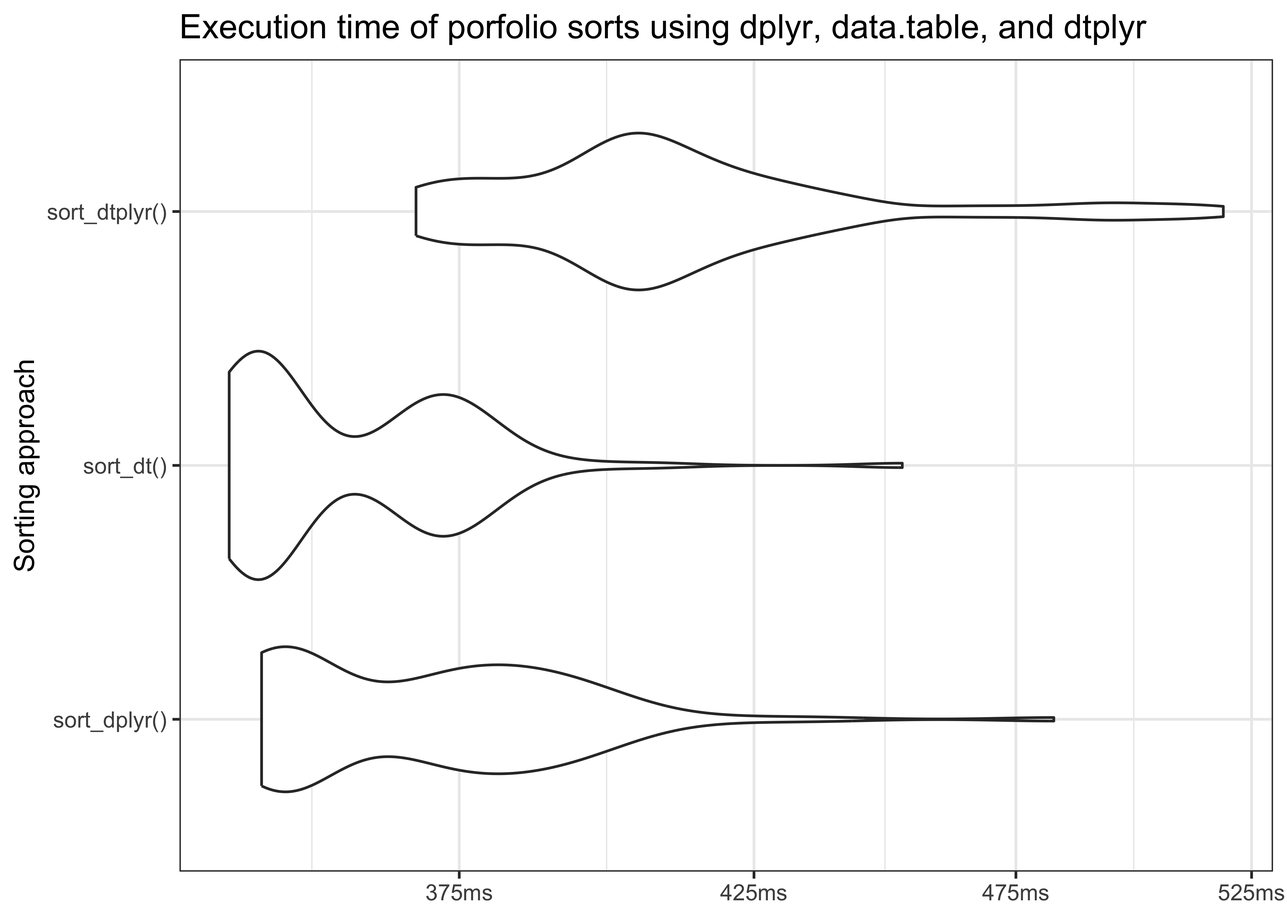
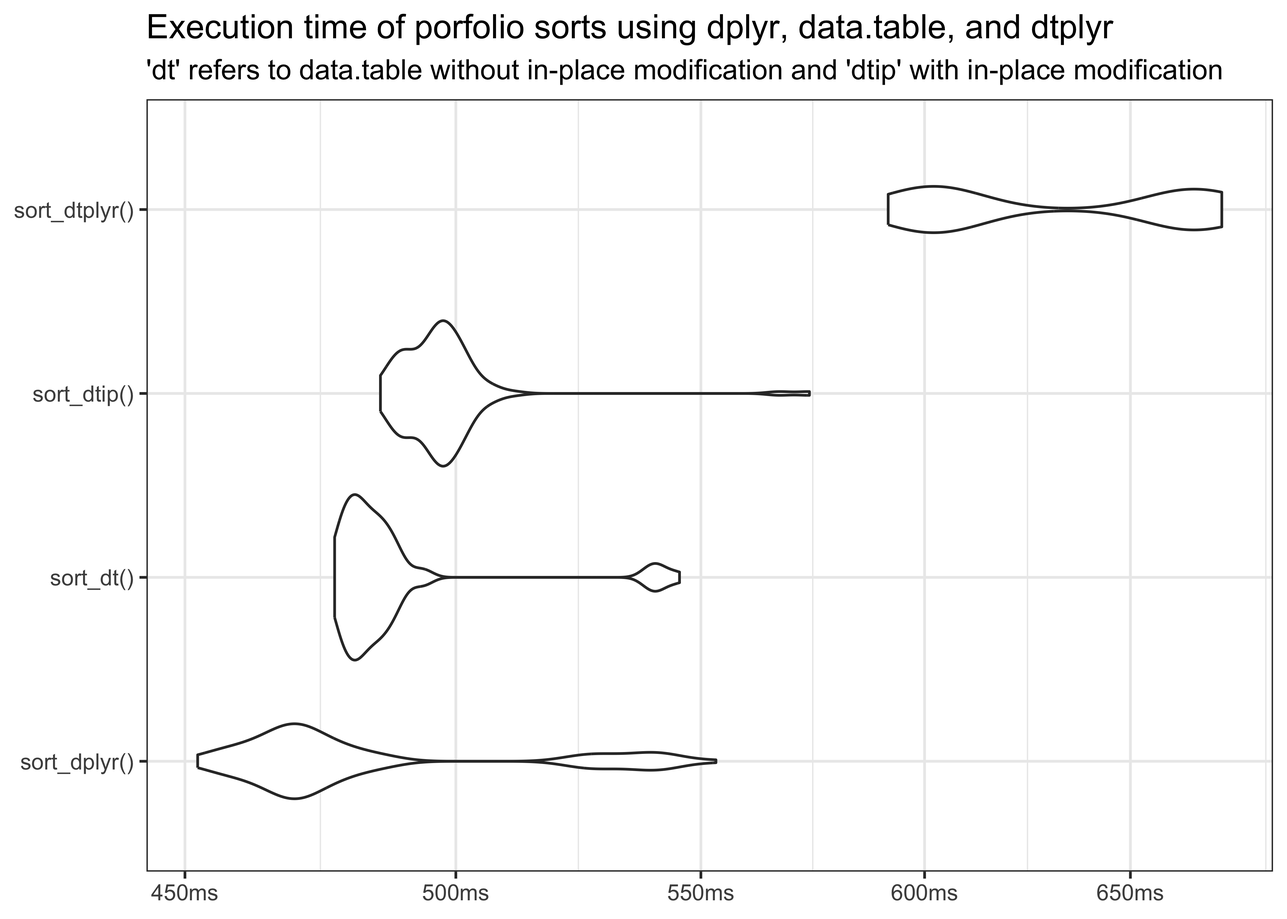
Render blog/fast-portfolio-sorts

diff --git a/docs/blog/fast-portfolio-sorts/index.html b/docs/blog/fast-portfolio-sorts/index.html
@@ -7,7 +7,7 @@
 <meta name="viewport" content="width=device-width, initial-scale=1.0, user-scalable=yes">
 
 <meta name="author" content="Christoph Scheuch">
-<meta name="dcterms.date" content="2024-06-06">
+<meta name="dcterms.date" content="2024-06-08">
 <meta name="description" content="A benchmark of R approaches for efficient portfolio sorts">
 
 <title>Tidy Finance - Fast Portfolio Sorts</title>
@@ -241,7 +241,7 @@ cookieconsent.run({
       <div>
       <div class="quarto-title-meta-heading">Published</div>
       <div class="quarto-title-meta-contents">
-        <p class="date">June 6, 2024</p>
+        <p class="date">June 8, 2024</p>
       </div>
     </div>
     
@@ -260,6 +260,7 @@ cookieconsent.run({
   <li><a href="#data-preparation" id="toc-data-preparation" class="nav-link active" data-scroll-target="#data-preparation">Data preparation</a></li>
   <li><a href="#defining-portfolio-sorts" id="toc-defining-portfolio-sorts" class="nav-link" data-scroll-target="#defining-portfolio-sorts">Defining portfolio sorts</a></li>
   <li><a href="#benchmarking-results" id="toc-benchmarking-results" class="nav-link" data-scroll-target="#benchmarking-results">Benchmarking results</a></li>
+  <li><a href="#concluding-remarks" id="toc-concluding-remarks" class="nav-link" data-scroll-target="#concluding-remarks">Concluding remarks</a></li>
   </ul>
 <div class="toc-actions"><ul><li><a href="https://github.com/tidy-finance/website/blob/main/blog/fast-portfolio-sorts/index.qmd" class="toc-action"><i class="bi bi-github"></i>View source</a></li></ul></div></nav>
     </div>
@@ -270,12 +271,13 @@ cookieconsent.run({
 
 
 
-<p>In the world of finance and investment management, working with large datasets containing portfolio holdings is a common task. One crucial operation that often needs to be performed on these datasets is portfolio sorts (e.g., see our chapter on <a href="../../r/univariate-portfolio-sorts.html">Univariate Portfolio Sorts</a>. While R offers a variety of approaches through its base functions and popular packages like <code>dplyr</code> and <code>data.table</code>, the performance of these methods can vary significantly, especially when dealing with large datasets. As a data analyst or portfolio manager, it’s essential to understand the trade-offs between different sorting approaches in terms of execution time and memory usage. This blog post aims toshed light on this topic by benchmarking the performance of various sorting methods in R, specifically for the use case of sorting portfolio holdings.</p>
+<p>In the world of finance and investment management, implementing standard tasks like portfolio sorts in R can be approached in various ways, including using base R, <code>dplyr</code>, or <code>data.table</code>. For researchers and data analysts, it’s crucial that these implementations are both correct and efficient. Even though portfolio sorting is a relatively simple task, the need to sort portfolios in numerous ways due to the variety of sorting variables and methodological uncertainties can make computational efficiency critical. This blog post will benchmark the performance of different sorting methods in R, focusing on execution time and memory usage, to provide insights for data analysts and portfolio managers on choosing the most efficient approach.</p>
 <p>We’ll dive into the following sorting approaches:</p>
 <ul>
 <li>Use the built-in <code>base</code> functions that ship with every R installation.</li>
 <li>Leverage the popular <code>dplyr</code> package and workhorse of <a href="../../r/index.html">Tidy Finance with R</a>.</li>
-<li>Explore the powerful <code>data.table</code> package and its sorting capabilities.</li>
+<li>Explore the powerful <code>data.table</code> package using on-the-fly column creation.</li>
+<li>Compare to the <code>data.table</code> variant with in-place mutations.</li>
 <li>Combine the <code>dplyr</code> syntax with <code>data.table</code>’s performance through <code>dtplyr</code>.</li>
 </ul>
 <p>Throughout this blog post, I’ll use the following packages. Notably, <code>bench</code> is used to create benchmarking results.</p>
@@ -285,11 +287,12 @@ cookieconsent.run({
 <span id="cb1-3"><a href="#cb1-3" aria-hidden="true" tabindex="-1"></a><span class="fu">library</span>(data.table)</span>
 <span id="cb1-4"><a href="#cb1-4" aria-hidden="true" tabindex="-1"></a><span class="fu">library</span>(bench)</span>
 <span id="cb1-5"><a href="#cb1-5" aria-hidden="true" tabindex="-1"></a><span class="fu">library</span>(purrr)</span>
-<span id="cb1-6"><a href="#cb1-6" aria-hidden="true" tabindex="-1"></a><span class="fu">library</span>(RSQLite)</span></code><button title="Copy to Clipboard" class="code-copy-button"><i class="bi"></i></button></pre></div>
+<span id="cb1-6"><a href="#cb1-6" aria-hidden="true" tabindex="-1"></a><span class="fu">library</span>(RSQLite)</span>
+<span id="cb1-7"><a href="#cb1-7" aria-hidden="true" tabindex="-1"></a><span class="fu">library</span>(ggplot2)</span></code><button title="Copy to Clipboard" class="code-copy-button"><i class="bi"></i></button></pre></div>
 </div>
 <section id="data-preparation" class="level2">
 <h2 class="anchored" data-anchor-id="data-preparation">Data preparation</h2>
-<p>First, I start by loading the monthly CRSP data from our database (see <a href="../../r/wrds-crsp-and-compustat.html">WRDS, CRSP, and Compustat</a> for details). The dataset has about 3 million rows and contains monthly returns between 1960 and 2023 for about 26,000 stocks. I also make sure that the data comes as a <code>tibble</code> for <code>dplyr</code>, a <code>data.frame</code> for <code>base</code>, a <code>data.table</code> for <code>data.table</code> and a “lazy” data table for <code>dtplyr</code> because I want to avoid any conversion issues in the portfolio assignments.</p>
+<p>First, I start by loading the monthly CRSP data from our database (see <a href="../../r/wrds-crsp-and-compustat.html">WRDS, CRSP, and Compustat</a> for details). The dataset has about 3 million rows and contains monthly returns between 1960 and 2023 for about 26,000 stocks. I also make sure that the data comes as a <code>tibble</code> for <code>dplyr</code>, a <code>data.frame</code> for <code>base</code>, two <code>data.table</code>s for the two <code>data.table</code> approaches, and a ‘lazy’ data table for <code>dtplyr</code> because I want to avoid any conversion issues in the portfolio assignments.</p>
 <div class="cell">
 <div class="sourceCode cell-code" id="cb2"><pre class="sourceCode r code-with-copy"><code class="sourceCode r"><span id="cb2-1"><a href="#cb2-1" aria-hidden="true" tabindex="-1"></a>tidy_finance <span class="ot">&lt;-</span> <span class="fu">dbConnect</span>(</span>
 <span id="cb2-2"><a href="#cb2-2" aria-hidden="true" tabindex="-1"></a>  <span class="fu">SQLite</span>(),</span>
@@ -305,8 +308,11 @@ cookieconsent.run({
 <span id="cb2-12"><a href="#cb2-12" aria-hidden="true" tabindex="-1"></a></span>
 <span id="cb2-13"><a href="#cb2-13" aria-hidden="true" tabindex="-1"></a>crsp_monthly_dt <span class="ot">&lt;-</span> <span class="fu">copy</span>(<span class="fu">as.data.table</span>(crsp_monthly_dplyr))</span>
 <span id="cb2-14"><a href="#cb2-14" aria-hidden="true" tabindex="-1"></a></span>
-<span id="cb2-15"><a href="#cb2-15" aria-hidden="true" tabindex="-1"></a>crsp_monthly_dtplyr <span class="ot">&lt;-</span> <span class="fu">lazy_dt</span>(crsp_monthly_dplyr)</span></code><button title="Copy to Clipboard" class="code-copy-button"><i class="bi"></i></button></pre></div>
+<span id="cb2-15"><a href="#cb2-15" aria-hidden="true" tabindex="-1"></a>crsp_monthly_dtip <span class="ot">&lt;-</span> <span class="fu">copy</span>(<span class="fu">as.data.table</span>(crsp_monthly_dplyr))</span>
+<span id="cb2-16"><a href="#cb2-16" aria-hidden="true" tabindex="-1"></a></span>
+<span id="cb2-17"><a href="#cb2-17" aria-hidden="true" tabindex="-1"></a>crsp_monthly_dtplyr <span class="ot">&lt;-</span> <span class="fu">lazy_dt</span>(<span class="fu">copy</span>(crsp_monthly_dt))</span></code><button title="Copy to Clipboard" class="code-copy-button"><i class="bi"></i></button></pre></div>
 </div>
+<p>Note <code>data.table</code> in R uses reference semantics, which means that modifying one <code>data.table</code> object could potentially modify another if they share the same underlying data. Therefore, <code>copy()</code> ensures that <code>crsp_monthly_dt</code> is an independent copy of the data, preventing unintentional side effects from modifications in subsequent operations and ensuring a fair comparison.</p>
 </section>
 <section id="defining-portfolio-sorts" class="level2">
 <h2 class="anchored" data-anchor-id="defining-portfolio-sorts">Defining portfolio sorts</h2>
@@ -329,106 +335,130 @@ cookieconsent.run({
 <p>If we want to apply the function above to each month using only <code>base</code>, then we have to first split the <code>data.frame</code> into multiple parts and <code>lapply()</code> the function to each part. After we combined the parts again to one big data.frame, we can use <code>aggregate()</code> to compute the average excess returns.</p>
 <div class="cell">
 <div class="sourceCode cell-code" id="cb4"><pre class="sourceCode r code-with-copy"><code class="sourceCode r"><span id="cb4-1"><a href="#cb4-1" aria-hidden="true" tabindex="-1"></a>sort_base <span class="ot">&lt;-</span> <span class="cf">function</span>() {</span>
-<span id="cb4-2"><a href="#cb4-2" aria-hidden="true" tabindex="-1"></a>  df_split <span class="ot">&lt;-</span> <span class="fu">split</span>(crsp_monthly_base, crsp_monthly_base<span class="sc">$</span>month)</span>
-<span id="cb4-3"><a href="#cb4-3" aria-hidden="true" tabindex="-1"></a>  df_split <span class="ot">&lt;-</span> <span class="fu">lapply</span>(df_split, <span class="cf">function</span>(df) {</span>
-<span id="cb4-4"><a href="#cb4-4" aria-hidden="true" tabindex="-1"></a>    df<span class="sc">$</span>portfolio <span class="ot">&lt;-</span> <span class="fu">assign_portfolio</span>(df, <span class="st">"mktcap_lag"</span>, <span class="at">n_portfolios =</span> <span class="dv">10</span>)</span>
-<span id="cb4-5"><a href="#cb4-5" aria-hidden="true" tabindex="-1"></a>    <span class="fu">return</span>(df)</span>
-<span id="cb4-6"><a href="#cb4-6" aria-hidden="true" tabindex="-1"></a>  })</span>
-<span id="cb4-7"><a href="#cb4-7" aria-hidden="true" tabindex="-1"></a>  df <span class="ot">&lt;-</span> <span class="fu">do.call</span>(rbind, df_split)</span>
-<span id="cb4-8"><a href="#cb4-8" aria-hidden="true" tabindex="-1"></a>  <span class="fu">aggregate</span>(ret_excess <span class="sc">~</span> portfolio, <span class="at">data =</span> df, <span class="at">FUN =</span> <span class="cf">function</span>(x) <span class="fu">mean</span>(x, <span class="at">na.rm =</span> <span class="cn">TRUE</span>))</span>
-<span id="cb4-9"><a href="#cb4-9" aria-hidden="true" tabindex="-1"></a>}</span>
-<span id="cb4-10"><a href="#cb4-10" aria-hidden="true" tabindex="-1"></a><span class="fu">sort_base</span>()</span></code><button title="Copy to Clipboard" class="code-copy-button"><i class="bi"></i></button></pre></div>
+<span id="cb4-2"><a href="#cb4-2" aria-hidden="true" tabindex="-1"></a>  crsp_monthly_base<span class="sc">$</span>portfolio <span class="ot">&lt;-</span> <span class="fu">with</span>(</span>
+<span id="cb4-3"><a href="#cb4-3" aria-hidden="true" tabindex="-1"></a>    crsp_monthly_base, </span>
+<span id="cb4-4"><a href="#cb4-4" aria-hidden="true" tabindex="-1"></a>    <span class="fu">ave</span>(mktcap_lag, month, <span class="at">FUN =</span> <span class="cf">function</span>(x) <span class="fu">assign_portfolio</span>(<span class="fu">data.frame</span>(<span class="at">mktcap_lag =</span> x), <span class="st">"mktcap_lag"</span>, <span class="at">n_portfolios =</span> <span class="dv">10</span>))</span>
+<span id="cb4-5"><a href="#cb4-5" aria-hidden="true" tabindex="-1"></a>  )</span>
+<span id="cb4-6"><a href="#cb4-6" aria-hidden="true" tabindex="-1"></a>  </span>
+<span id="cb4-7"><a href="#cb4-7" aria-hidden="true" tabindex="-1"></a>  mean_ret_excess <span class="ot">&lt;-</span> <span class="fu">with</span>(</span>
+<span id="cb4-8"><a href="#cb4-8" aria-hidden="true" tabindex="-1"></a>    crsp_monthly_base, </span>
+<span id="cb4-9"><a href="#cb4-9" aria-hidden="true" tabindex="-1"></a>    <span class="fu">tapply</span>(ret_excess, portfolio, mean)</span>
+<span id="cb4-10"><a href="#cb4-10" aria-hidden="true" tabindex="-1"></a>  )</span>
+<span id="cb4-11"><a href="#cb4-11" aria-hidden="true" tabindex="-1"></a></span>
+<span id="cb4-12"><a href="#cb4-12" aria-hidden="true" tabindex="-1"></a>  <span class="fu">data.frame</span>(</span>
+<span id="cb4-13"><a href="#cb4-13" aria-hidden="true" tabindex="-1"></a>    <span class="at">portfolio =</span> <span class="fu">names</span>(mean_ret_excess), </span>
+<span id="cb4-14"><a href="#cb4-14" aria-hidden="true" tabindex="-1"></a>    <span class="at">ret =</span> <span class="fu">unlist</span>(mean_ret_excess)</span>
+<span id="cb4-15"><a href="#cb4-15" aria-hidden="true" tabindex="-1"></a>  )</span>
+<span id="cb4-16"><a href="#cb4-16" aria-hidden="true" tabindex="-1"></a>}</span>
+<span id="cb4-17"><a href="#cb4-17" aria-hidden="true" tabindex="-1"></a>bench<span class="sc">::</span><span class="fu">system_time</span>(<span class="fu">sort_base</span>())</span></code><button title="Copy to Clipboard" class="code-copy-button"><i class="bi"></i></button></pre></div>
 <div class="cell-output cell-output-stdout">
-<pre><code>   portfolio ret_excess
-1          1    0.02270
-2          2    0.00512
-3          3    0.00482
-4          4    0.00515
-5          5    0.00548
-6          6    0.00608
-7          7    0.00637
-8          8    0.00680
-9          9    0.00647
-10        10    0.00579</code></pre>
+<pre><code>process    real 
+  3.11s   3.08s </code></pre>
 </div>
 </div>
-<p>This approach takes about 10 seconds per execution on my machine and is in fact more than 20-times slower than the other approaches! To create a more nuanced picture for the fast and arguably more interesting approaches, I’ll drop the <code>base</code> approach going forward.</p>
+<p>This approach takes about 3 seconds per execution on my machine and is in fact more than 8-times slower than the other approaches! To create a more nuanced picture for the fast and arguably more interesting approaches, I’ll drop the <code>base</code> approach going forward.</p>
 <p>If we want to perform the same logic using <code>dplyr</code>, we can use the following approach. Note that I use <code>as.data.frame()</code> for all approaches to ensure that the output format is the same for all approaches - a necessary requirement for a meaningful benchmark (otherwise code would not be equivalent).</p>
 <div class="cell">
 <div class="sourceCode cell-code" id="cb6"><pre class="sourceCode r code-with-copy"><code class="sourceCode r"><span id="cb6-1"><a href="#cb6-1" aria-hidden="true" tabindex="-1"></a>sort_dplyr <span class="ot">&lt;-</span> <span class="cf">function</span>() {</span>
 <span id="cb6-2"><a href="#cb6-2" aria-hidden="true" tabindex="-1"></a>  crsp_monthly_dplyr <span class="sc">|&gt;</span> </span>
-<span id="cb6-3"><a href="#cb6-3" aria-hidden="true" tabindex="-1"></a>    <span class="fu">mutate</span>(</span>
-<span id="cb6-4"><a href="#cb6-4" aria-hidden="true" tabindex="-1"></a>      <span class="at">portfolio =</span> <span class="fu">assign_portfolio</span>(</span>
-<span id="cb6-5"><a href="#cb6-5" aria-hidden="true" tabindex="-1"></a>        <span class="fu">pick</span>(<span class="fu">everything</span>()), <span class="st">"mktcap_lag"</span>, <span class="at">n_portfolios =</span> <span class="dv">10</span>),</span>
-<span id="cb6-6"><a href="#cb6-6" aria-hidden="true" tabindex="-1"></a>      <span class="at">by =</span> <span class="st">"month"</span></span>
-<span id="cb6-7"><a href="#cb6-7" aria-hidden="true" tabindex="-1"></a>    ) <span class="sc">|&gt;</span> </span>
-<span id="cb6-8"><a href="#cb6-8" aria-hidden="true" tabindex="-1"></a>    <span class="fu">group_by</span>(portfolio) <span class="sc">|&gt;</span> </span>
-<span id="cb6-9"><a href="#cb6-9" aria-hidden="true" tabindex="-1"></a>    <span class="fu">summarize</span>(<span class="at">ret =</span> <span class="fu">mean</span>(ret_excess, <span class="at">na.rm =</span> <span class="cn">TRUE</span>)) <span class="sc">|&gt;</span> </span>
-<span id="cb6-10"><a href="#cb6-10" aria-hidden="true" tabindex="-1"></a>    <span class="fu">as.data.frame</span>()</span>
-<span id="cb6-11"><a href="#cb6-11" aria-hidden="true" tabindex="-1"></a>}</span>
-<span id="cb6-12"><a href="#cb6-12" aria-hidden="true" tabindex="-1"></a><span class="fu">sort_dplyr</span>()</span></code><button title="Copy to Clipboard" class="code-copy-button"><i class="bi"></i></button></pre></div>
+<span id="cb6-3"><a href="#cb6-3" aria-hidden="true" tabindex="-1"></a>    <span class="fu">group_by</span>(month) <span class="sc">|&gt;</span> </span>
+<span id="cb6-4"><a href="#cb6-4" aria-hidden="true" tabindex="-1"></a>    <span class="fu">mutate</span>(</span>
+<span id="cb6-5"><a href="#cb6-5" aria-hidden="true" tabindex="-1"></a>      <span class="at">portfolio =</span> <span class="fu">assign_portfolio</span>(</span>
+<span id="cb6-6"><a href="#cb6-6" aria-hidden="true" tabindex="-1"></a>        <span class="fu">pick</span>(<span class="fu">everything</span>()), <span class="st">"mktcap_lag"</span>, <span class="at">n_portfolios =</span> <span class="dv">10</span>),</span>
+<span id="cb6-7"><a href="#cb6-7" aria-hidden="true" tabindex="-1"></a>      <span class="at">by =</span> <span class="st">"month"</span></span>
+<span id="cb6-8"><a href="#cb6-8" aria-hidden="true" tabindex="-1"></a>    ) <span class="sc">|&gt;</span> </span>
+<span id="cb6-9"><a href="#cb6-9" aria-hidden="true" tabindex="-1"></a>    <span class="fu">group_by</span>(portfolio) <span class="sc">|&gt;</span> </span>
+<span id="cb6-10"><a href="#cb6-10" aria-hidden="true" tabindex="-1"></a>    <span class="fu">summarize</span>(<span class="at">ret =</span> <span class="fu">mean</span>(ret_excess)) <span class="sc">|&gt;</span> </span>
+<span id="cb6-11"><a href="#cb6-11" aria-hidden="true" tabindex="-1"></a>    <span class="fu">as.data.frame</span>()</span>
+<span id="cb6-12"><a href="#cb6-12" aria-hidden="true" tabindex="-1"></a>}</span>
+<span id="cb6-13"><a href="#cb6-13" aria-hidden="true" tabindex="-1"></a><span class="fu">sort_dplyr</span>()</span></code><button title="Copy to Clipboard" class="code-copy-button"><i class="bi"></i></button></pre></div>
 <div class="cell-output cell-output-stdout">
 <pre><code>   portfolio     ret
-1          1 0.02351
-2          2 0.00666
-3          3 0.00485
-4          4 0.00455
-5          5 0.00491
-6          6 0.00604
-7          7 0.00656
-8          8 0.00607
-9          9 0.00556
-10        10 0.00607</code></pre>
+1          1 0.02270
+2          2 0.00512
+3          3 0.00482
+4          4 0.00515
+5          5 0.00548
+6          6 0.00608
+7          7 0.00637
+8          8 0.00680
+9          9 0.00647
+10        10 0.00579</code></pre>
 </div>
 </div>
-<p>The equivalent approach in <code>data.table</code> looks as follows. Note that I deliberately don’t use any pipe or intermediate assignments as to avoid any performance overhead that these might introduce.</p>
+<p>The equivalent approach in <code>data.table</code> looks as follows. Note that I deliberately don’t use any pipe or intermediate assignments as to avoid any performance overhead that these might introduce. I also avoid using the in-place modifier <code>:=</code> because it would create a new permanent column in <code>crsp_monthly_dt</code>, which I don’t need for the on-the-fly aggregation and it also doesn’t happen in <code>dplyr</code>.</p>
 <div class="cell">
 <div class="sourceCode cell-code" id="cb8"><pre class="sourceCode r code-with-copy"><code class="sourceCode r"><span id="cb8-1"><a href="#cb8-1" aria-hidden="true" tabindex="-1"></a>sort_dt <span class="ot">&lt;-</span> <span class="cf">function</span>() {</span>
 <span id="cb8-2"><a href="#cb8-2" aria-hidden="true" tabindex="-1"></a>  <span class="fu">as.data.frame</span>(crsp_monthly_dt[</span>
-<span id="cb8-3"><a href="#cb8-3" aria-hidden="true" tabindex="-1"></a>    , <span class="st">`</span><span class="at">:=</span><span class="st">`</span>(<span class="at">portfolio =</span> <span class="fu">assign_portfolio</span>(.SD, <span class="st">"mktcap_lag"</span>, <span class="at">n_portfolios =</span> <span class="dv">10</span>), <span class="at">by =</span> month)</span>
-<span id="cb8-4"><a href="#cb8-4" aria-hidden="true" tabindex="-1"></a>    ][, .(<span class="at">ret =</span> <span class="fu">mean</span>(ret_excess, <span class="at">na.rm =</span> <span class="cn">TRUE</span>)), <span class="at">keyby =</span> .(portfolio)])</span>
-<span id="cb8-5"><a href="#cb8-5" aria-hidden="true" tabindex="-1"></a>}</span>
-<span id="cb8-6"><a href="#cb8-6" aria-hidden="true" tabindex="-1"></a><span class="fu">sort_dt</span>()</span></code><button title="Copy to Clipboard" class="code-copy-button"><i class="bi"></i></button></pre></div>
+<span id="cb8-3"><a href="#cb8-3" aria-hidden="true" tabindex="-1"></a>    , .(<span class="at">portfolio =</span> <span class="fu">assign_portfolio</span>(.SD, <span class="st">"mktcap_lag"</span>, <span class="at">n_portfolios =</span> <span class="dv">10</span>), month, ret_excess), <span class="at">by =</span> .(month)][</span>
+<span id="cb8-4"><a href="#cb8-4" aria-hidden="true" tabindex="-1"></a>      , .(<span class="at">ret =</span> <span class="fu">mean</span>(ret_excess)), <span class="at">keyby =</span> .(portfolio)</span>
+<span id="cb8-5"><a href="#cb8-5" aria-hidden="true" tabindex="-1"></a>      ])</span>
+<span id="cb8-6"><a href="#cb8-6" aria-hidden="true" tabindex="-1"></a>}</span>
+<span id="cb8-7"><a href="#cb8-7" aria-hidden="true" tabindex="-1"></a><span class="fu">sort_dt</span>()</span></code><button title="Copy to Clipboard" class="code-copy-button"><i class="bi"></i></button></pre></div>
 <div class="cell-output cell-output-stdout">
 <pre><code>   portfolio     ret
-1          1 0.02351
-2          2 0.00666
-3          3 0.00485
-4          4 0.00455
-5          5 0.00491
-6          6 0.00604
-7          7 0.00656
-8          8 0.00607
-9          9 0.00556
-10        10 0.00607</code></pre>
+1          1 0.02270
+2          2 0.00512
+3          3 0.00482
+4          4 0.00515
+5          5 0.00548
+6          6 0.00608
+7          7 0.00637
+8          8 0.00680
+9          9 0.00647
+10        10 0.00579</code></pre>
+</div>
+</div>
+<p>However, as the performance benefit of <code>data.table</code> may manifest itself through its in-place modification capabilties, I also introduce a second version of the <code>data.table</code> expression. Note that in this version <code>crsp_monthly_dtip</code> gets a permanent column <code>portfolio</code> that is overwritten in each iteration.</p>
+<div class="cell">
+<div class="sourceCode cell-code" id="cb10"><pre class="sourceCode r code-with-copy"><code class="sourceCode r"><span id="cb10-1"><a href="#cb10-1" aria-hidden="true" tabindex="-1"></a>sort_dtip <span class="ot">&lt;-</span> <span class="cf">function</span>() {</span>
+<span id="cb10-2"><a href="#cb10-2" aria-hidden="true" tabindex="-1"></a>  <span class="fu">as.data.frame</span>(crsp_monthly_dtip[</span>
+<span id="cb10-3"><a href="#cb10-3" aria-hidden="true" tabindex="-1"></a>    , <span class="at">portfolio :=</span> <span class="fu">assign_portfolio</span>(.SD, <span class="st">"mktcap_lag"</span>, <span class="at">n_portfolios =</span> <span class="dv">10</span>), <span class="at">by =</span> .(month)][</span>
+<span id="cb10-4"><a href="#cb10-4" aria-hidden="true" tabindex="-1"></a>      , .(<span class="at">ret =</span> <span class="fu">mean</span>(ret_excess)), <span class="at">keyby =</span> .(portfolio)</span>
+<span id="cb10-5"><a href="#cb10-5" aria-hidden="true" tabindex="-1"></a>      ])</span>
+<span id="cb10-6"><a href="#cb10-6" aria-hidden="true" tabindex="-1"></a>}</span>
+<span id="cb10-7"><a href="#cb10-7" aria-hidden="true" tabindex="-1"></a><span class="fu">sort_dtip</span>()</span></code><button title="Copy to Clipboard" class="code-copy-button"><i class="bi"></i></button></pre></div>
+<div class="cell-output cell-output-stdout">
+<pre><code>   portfolio     ret
+1          1 0.02270
+2          2 0.00512
+3          3 0.00482
+4          4 0.00515
+5          5 0.00548
+6          6 0.00608
+7          7 0.00637
+8          8 0.00680
+9          9 0.00647
+10        10 0.00579</code></pre>
 </div>
 </div>
 <p>Lastly, I add the <code>dtplyr</code> implementation that also takes a <code>data.table</code> as input and internally converts <code>dplyr</code> code to <code>data.table</code> syntax. Note that the final <code>as.data.frame()</code> call is used to access the results and ensure that the result format is consistent with the other approaches.</p>
 <div class="cell">
-<div class="sourceCode cell-code" id="cb10"><pre class="sourceCode r code-with-copy"><code class="sourceCode r"><span id="cb10-1"><a href="#cb10-1" aria-hidden="true" tabindex="-1"></a>sort_dtplyr <span class="ot">&lt;-</span> <span class="cf">function</span>() {</span>
-<span id="cb10-2"><a href="#cb10-2" aria-hidden="true" tabindex="-1"></a>  crsp_monthly_dtplyr <span class="sc">|&gt;</span> </span>
-<span id="cb10-3"><a href="#cb10-3" aria-hidden="true" tabindex="-1"></a>    <span class="fu">mutate</span>(</span>
-<span id="cb10-4"><a href="#cb10-4" aria-hidden="true" tabindex="-1"></a>      <span class="at">portfolio =</span> <span class="fu">assign_portfolio</span>(</span>
-<span id="cb10-5"><a href="#cb10-5" aria-hidden="true" tabindex="-1"></a>        <span class="fu">pick</span>(<span class="fu">everything</span>()), <span class="st">"mktcap_lag"</span>, <span class="at">n_portfolios =</span> <span class="dv">10</span>),</span>
-<span id="cb10-6"><a href="#cb10-6" aria-hidden="true" tabindex="-1"></a>      <span class="at">by =</span> <span class="st">"month"</span></span>
-<span id="cb10-7"><a href="#cb10-7" aria-hidden="true" tabindex="-1"></a>    )  <span class="sc">|&gt;</span> </span>
-<span id="cb10-8"><a href="#cb10-8" aria-hidden="true" tabindex="-1"></a>    <span class="fu">group_by</span>(portfolio) <span class="sc">|&gt;</span> </span>
-<span id="cb10-9"><a href="#cb10-9" aria-hidden="true" tabindex="-1"></a>    <span class="fu">summarize</span>(<span class="at">ret =</span> <span class="fu">mean</span>(ret_excess, <span class="at">na.rm =</span> <span class="cn">TRUE</span>)) <span class="sc">|&gt;</span> </span>
-<span id="cb10-10"><a href="#cb10-10" aria-hidden="true" tabindex="-1"></a>    <span class="fu">as.data.frame</span>()</span>
-<span id="cb10-11"><a href="#cb10-11" aria-hidden="true" tabindex="-1"></a>}</span>
-<span id="cb10-12"><a href="#cb10-12" aria-hidden="true" tabindex="-1"></a><span class="fu">sort_dtplyr</span>()</span></code><button title="Copy to Clipboard" class="code-copy-button"><i class="bi"></i></button></pre></div>
+<div class="sourceCode cell-code" id="cb12"><pre class="sourceCode r code-with-copy"><code class="sourceCode r"><span id="cb12-1"><a href="#cb12-1" aria-hidden="true" tabindex="-1"></a>sort_dtplyr <span class="ot">&lt;-</span> <span class="cf">function</span>() {</span>
+<span id="cb12-2"><a href="#cb12-2" aria-hidden="true" tabindex="-1"></a>  crsp_monthly_dtplyr <span class="sc">|&gt;</span> </span>
+<span id="cb12-3"><a href="#cb12-3" aria-hidden="true" tabindex="-1"></a>    <span class="fu">group_by</span>(month) <span class="sc">|&gt;</span> </span>
+<span id="cb12-4"><a href="#cb12-4" aria-hidden="true" tabindex="-1"></a>    <span class="fu">mutate</span>(</span>
+<span id="cb12-5"><a href="#cb12-5" aria-hidden="true" tabindex="-1"></a>      <span class="at">portfolio =</span> <span class="fu">assign_portfolio</span>(</span>
+<span id="cb12-6"><a href="#cb12-6" aria-hidden="true" tabindex="-1"></a>        <span class="fu">pick</span>(<span class="fu">everything</span>()), <span class="st">"mktcap_lag"</span>, <span class="at">n_portfolios =</span> <span class="dv">10</span>),</span>
+<span id="cb12-7"><a href="#cb12-7" aria-hidden="true" tabindex="-1"></a>      <span class="at">by =</span> <span class="st">"month"</span></span>
+<span id="cb12-8"><a href="#cb12-8" aria-hidden="true" tabindex="-1"></a>    )  <span class="sc">|&gt;</span> </span>
+<span id="cb12-9"><a href="#cb12-9" aria-hidden="true" tabindex="-1"></a>    <span class="fu">group_by</span>(portfolio) <span class="sc">|&gt;</span> </span>
+<span id="cb12-10"><a href="#cb12-10" aria-hidden="true" tabindex="-1"></a>    <span class="fu">summarize</span>(<span class="at">ret =</span> <span class="fu">mean</span>(ret_excess, <span class="at">na.rm =</span> <span class="cn">TRUE</span>)) <span class="sc">|&gt;</span> </span>
+<span id="cb12-11"><a href="#cb12-11" aria-hidden="true" tabindex="-1"></a>    <span class="fu">as.data.frame</span>()</span>
+<span id="cb12-12"><a href="#cb12-12" aria-hidden="true" tabindex="-1"></a>}</span>
+<span id="cb12-13"><a href="#cb12-13" aria-hidden="true" tabindex="-1"></a><span class="fu">sort_dtplyr</span>()</span></code><button title="Copy to Clipboard" class="code-copy-button"><i class="bi"></i></button></pre></div>
 <div class="cell-output cell-output-stdout">
 <pre><code>   portfolio     ret
-1          1 0.02351
-2          2 0.00666
-3          3 0.00485
-4          4 0.00455
-5          5 0.00491
-6          6 0.00604
-7          7 0.00656
-8          8 0.00607
-9          9 0.00556
-10        10 0.00607</code></pre>
+1          1 0.02270
+2          2 0.00512
+3          3 0.00482
+4          4 0.00515
+5          5 0.00548
+6          6 0.00608
+7          7 0.00637
+8          8 0.00680
+9          9 0.00647
+10        10 0.00579</code></pre>
 </div>
 </div>
 <p>Now that we have verified that all code chunks create the same average excess returns per portfolio, we can proceed to the performance evaluation.</p>
@@ -437,21 +467,19 @@ cookieconsent.run({
 <h2 class="anchored" data-anchor-id="benchmarking-results">Benchmarking results</h2>
 <p>The <code>bench</code> package is a great utility for benchmarking and timing expressions in R. It provides functions that allow you to measure the execution time of expressions or code chunks. This can be useful for comparing the performance of different approaches or implementations, or for identifying potential bottlenecks in your code. The following code evaluates each approach from above a 100 times and collects the results.</p>
 <div class="cell">
-<div class="sourceCode cell-code" id="cb12"><pre class="sourceCode r code-with-copy"><code class="sourceCode r"><span id="cb12-1"><a href="#cb12-1" aria-hidden="true" tabindex="-1"></a><span class="fu">set.seed</span>(<span class="dv">1234</span>)</span>
-<span id="cb12-2"><a href="#cb12-2" aria-hidden="true" tabindex="-1"></a>iterations <span class="ot">&lt;-</span> <span class="dv">100</span></span>
-<span id="cb12-3"><a href="#cb12-3" aria-hidden="true" tabindex="-1"></a></span>
-<span id="cb12-4"><a href="#cb12-4" aria-hidden="true" tabindex="-1"></a>results <span class="ot">&lt;-</span> bench<span class="sc">::</span><span class="fu">mark</span>(</span>
-<span id="cb12-5"><a href="#cb12-5" aria-hidden="true" tabindex="-1"></a>  <span class="fu">sort_dplyr</span>(), <span class="fu">sort_dt</span>(), <span class="fu">sort_dtplyr</span>(), </span>
-<span id="cb12-6"><a href="#cb12-6" aria-hidden="true" tabindex="-1"></a>  <span class="at">iterations =</span> iterations</span>
-<span id="cb12-7"><a href="#cb12-7" aria-hidden="true" tabindex="-1"></a>)</span></code><button title="Copy to Clipboard" class="code-copy-button"><i class="bi"></i></button></pre></div>
+<div class="sourceCode cell-code" id="cb14"><pre class="sourceCode r code-with-copy"><code class="sourceCode r"><span id="cb14-1"><a href="#cb14-1" aria-hidden="true" tabindex="-1"></a>iterations <span class="ot">&lt;-</span> <span class="dv">100</span></span>
+<span id="cb14-2"><a href="#cb14-2" aria-hidden="true" tabindex="-1"></a></span>
+<span id="cb14-3"><a href="#cb14-3" aria-hidden="true" tabindex="-1"></a>results <span class="ot">&lt;-</span> bench<span class="sc">::</span><span class="fu">mark</span>(</span>
+<span id="cb14-4"><a href="#cb14-4" aria-hidden="true" tabindex="-1"></a>  <span class="fu">sort_dplyr</span>(), <span class="fu">sort_dt</span>(), <span class="fu">sort_dtip</span>(), <span class="fu">sort_dtplyr</span>(), </span>
+<span id="cb14-5"><a href="#cb14-5" aria-hidden="true" tabindex="-1"></a>  <span class="at">iterations =</span> iterations</span>
+<span id="cb14-6"><a href="#cb14-6" aria-hidden="true" tabindex="-1"></a>)</span></code><button title="Copy to Clipboard" class="code-copy-button"><i class="bi"></i></button></pre></div>
 </div>
-<p>The following plot shows the distributions of execution times as violin plots. You can see that <code>data.table</code> takes the lead and is followed closely by <code>dbplyr</code>, while <code>dtplyr</code> takes the third place.</p>
+<p>The following plot shows the distributions of execution times as violin plots. You can see that <code>dplyr</code> takes the lead and is followed closely by both <code>data.table</code> variants, while <code>dtplyr</code> takes the third place.</p>
 <div class="cell">
-<div class="sourceCode cell-code" id="cb13"><pre class="sourceCode r code-with-copy"><code class="sourceCode r"><span id="cb13-1"><a href="#cb13-1" aria-hidden="true" tabindex="-1"></a><span class="fu">library</span>(ggplot2)</span>
-<span id="cb13-2"><a href="#cb13-2" aria-hidden="true" tabindex="-1"></a></span>
-<span id="cb13-3"><a href="#cb13-3" aria-hidden="true" tabindex="-1"></a><span class="fu">autoplot</span>(results, <span class="at">type =</span> <span class="st">"violin"</span>) <span class="sc">+</span></span>
-<span id="cb13-4"><a href="#cb13-4" aria-hidden="true" tabindex="-1"></a>  <span class="fu">labs</span>(<span class="at">y =</span> <span class="cn">NULL</span>, <span class="at">x =</span> <span class="st">"Sorting approach"</span>, </span>
-<span id="cb13-5"><a href="#cb13-5" aria-hidden="true" tabindex="-1"></a>       <span class="at">title =</span> <span class="st">"Execution time of porfolio sorts using dplyr, data.table, and dtplyr"</span>)</span></code><button title="Copy to Clipboard" class="code-copy-button"><i class="bi"></i></button></pre></div>
+<div class="sourceCode cell-code" id="cb15"><pre class="sourceCode r code-with-copy"><code class="sourceCode r"><span id="cb15-1"><a href="#cb15-1" aria-hidden="true" tabindex="-1"></a><span class="fu">autoplot</span>(results, <span class="at">type =</span> <span class="st">"violin"</span>) <span class="sc">+</span></span>
+<span id="cb15-2"><a href="#cb15-2" aria-hidden="true" tabindex="-1"></a>  <span class="fu">labs</span>(<span class="at">y =</span> <span class="cn">NULL</span>, <span class="at">x =</span> <span class="cn">NULL</span>, </span>
+<span id="cb15-3"><a href="#cb15-3" aria-hidden="true" tabindex="-1"></a>       <span class="at">title =</span> <span class="st">"Execution time of porfolio sorts using dplyr, data.table, and dtplyr"</span>,</span>
+<span id="cb15-4"><a href="#cb15-4" aria-hidden="true" tabindex="-1"></a>       <span class="at">subtitle =</span> <span class="st">"'dt' refers to data.table without in-place modification and 'dtip' with in-place modification"</span>)</span></code><button title="Copy to Clipboard" class="code-copy-button"><i class="bi"></i></button></pre></div>
 <div class="cell-output-display">
 <div>
 <figure class="figure">
@@ -460,7 +488,14 @@ cookieconsent.run({
 </div>
 </div>
 </div>
-<p>Note that all three methods are blazingly fast, given that the task is to assign 10 portfolios across up to 26,000 stocks for 755 months. I personally don’t really care for the extra few milliseconds that I’d get through <code>data.table</code> by sacrificing the <code>dplyr</code> syntax because I code mostly interactively. If your context involves time constraints and needs to be as fast as possible, then you might not only prefer <code>data.table</code>, but also thing about more efficient ways to assign portfolios compared to applying the function I have given above.</p>
+<p>Note that all three methods are quite fast and take less than 1 second, given that the task is to assign 10 portfolios across up to 26,000 stocks for 755 months. In fact, <code>dplyr</code> yields the fastest execution times, followed by both <code>data.table</code> implementations and <code>dtplyr</code>.</p>
+<p>Why is <code>data.table</code> slower than <code>dplyr</code>? It is generally believed that <code>data.table</code> is faster than <code>dplyr</code> for data manipulation tasks. The example above shows that it actually depends on the application. On the one hand, the data set might be ‘too small’ for the performance benefits of <code>data.table</code> to kick in. On the other hand, sorting the portfolios using the <code>assign_portfolio()</code> function might be better suited for the <code>dplyr</code> execution backend than the <code>data.table</code> backend.</p>
+<p>Why is <code>dtplyr</code> slower than <code>data.table</code>? On the one hand, <code>dtplyr</code> translates <code>dplyr</code> operations into <code>data.table</code> syntax. This translation process introduces some overhead, as <code>dtplyr</code> needs to interpret the <code>dplyr</code> code and convert it into equivalent <code>data.table</code> operations. On the other hand, <code>dtplyr</code> does not modify in place by default, so it typcially makes a copy that would not be necessary if you were using <code>data.table</code> directly.</p>
+</section>
+<section id="concluding-remarks" class="level2">
+<h2 class="anchored" data-anchor-id="concluding-remarks">Concluding remarks</h2>
+<p>The key takeway is that neither of the libraries is strictly more efficient than the other. If you really search for performance among R libraries, you have to carefully choose a library for your specific application and think hard about optimizing the logic of your code to the chosen library.</p>
+<p>If you have ideas how to optimize any of the approaches, please reach out to us! In particular, we’d love to optimize <code>base</code> sufficiently for it to be included in the benchmark tests.</p>
 
 
 </section>
@@ -899,7 +934,7 @@ window.document.addEventListener("DOMContentLoaded", function (event) {
     </div>
   </div>
 </footer>
-<script>var lightboxQuarto = GLightbox({"loop":false,"descPosition":"bottom","selector":".lightbox","closeEffect":"zoom","openEffect":"zoom"});
+<script>var lightboxQuarto = GLightbox({"loop":false,"selector":".lightbox","openEffect":"zoom","closeEffect":"zoom","descPosition":"bottom"});
 window.onload = () => {
   lightboxQuarto.on('slide_before_load', (data) => {
     const { slideIndex, slideNode, slideConfig, player, trigger } = data;

diff --git a/docs/blog.html b/docs/blog.html
@@ -266,7 +266,7 @@ window.Quarto = {
 
 <div class="quarto-listing quarto-listing-container-grid" id="listing-listing">
 <div class="list grid quarto-listing-cols-3">
-<div class="g-col-1" data-index="0" data-categories="R,Portfolio Sorts,data.table" data-listing-date-sort="1717624800000" data-listing-file-modified-sort="1717624927417" data-listing-date-modified-sort="NaN" data-listing-reading-time-sort="6" data-listing-word-count-sort="1112">
+<div class="g-col-1" data-index="0" data-categories="R,Portfolio Sorts,data.table" data-listing-date-sort="1717797600000" data-listing-file-modified-sort="1717842650773" data-listing-date-modified-sort="NaN" data-listing-reading-time-sort="8" data-listing-word-count-sort="1496">
 <a href="./blog/fast-portfolio-sorts/index.html" class="quarto-grid-link">
 <div class="quarto-grid-item card h-100 card-left">
 <p class="card-img-top">
@@ -277,7 +277,7 @@ window.Quarto = {
 Fast Portfolio Sorts
 </h5>
 <div class="listing-reading-time card-text text-muted">
-6 min
+8 min
 </div>
 <div class="listing-categories">
 <div class="listing-category" onclick="window.quartoListingCategory('R'); return false;">
@@ -298,7 +298,7 @@ A benchmark of R approaches for efficient portfolio sorts
 Christoph Scheuch
 </div>
 <div class="listing-date">
-Jun 6, 2024
+Jun 8, 2024
 </div>
 </div>
 </div>
